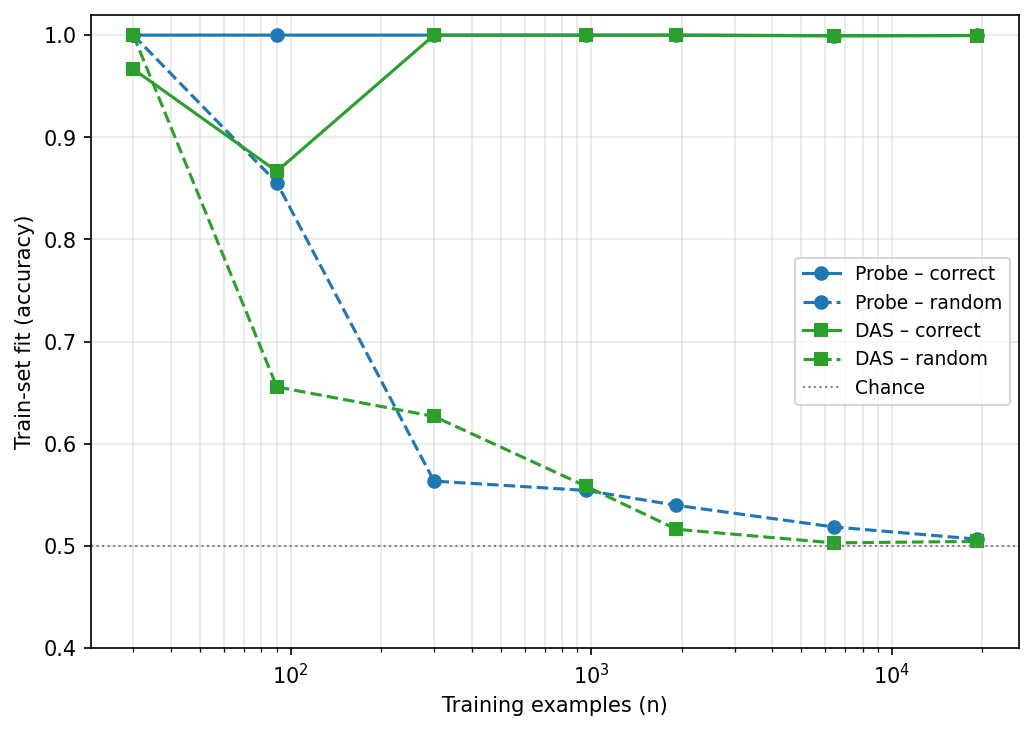
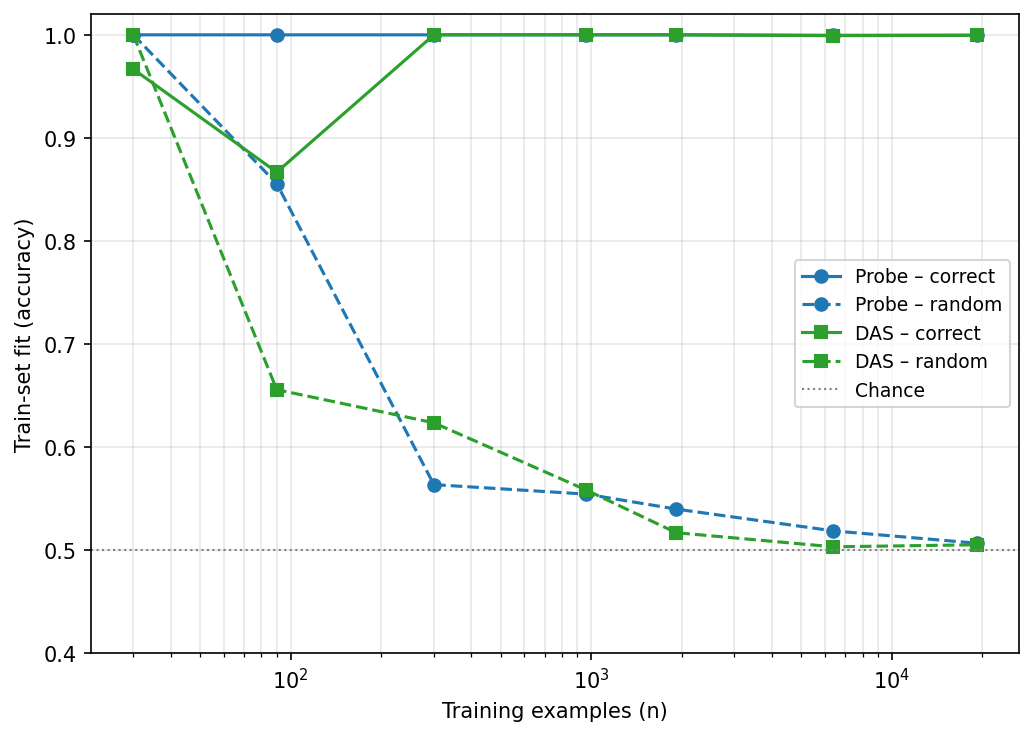
Code to run multiple seeds of main experiment.

diff --git a/heq/experiments.py b/heq/experiments.py
@@ -9,6 +9,8 @@ while the correct-label fit persists. The ``n`` at which the random fit collapse
 the capacity signature we want to compare across methods.
 """
 
+import random
+
 import numpy as np
 import torch
 from sklearn.linear_model import LogisticRegression
@@ -72,7 +74,7 @@ def _rotation_state(intervenable):
 
 def run_das_scaling(trained, train_causal_model, test_dataset, embedding_dim,
                     sampler, cache_params, das_configs=DAS_SCALE_CONFIGS,
-                    eval_batch_size=640, lr=0.01, warmup_steps=10, device="cpu"):
+                    eval_batch_size=640, lr=0.01, warmup_steps=10, seed=0, device="cpu"):
     """DAS train-fit (capacity) vs n, on correct and on fixed-random labels.
 
     accumulation_steps=1 and a roughly constant optimiser budget ensure each fit is
@@ -88,7 +90,7 @@ def run_das_scaling(trained, train_causal_model, test_dataset, embedding_dim,
         dataset = load_or_generate_counterfactual(
             "scale", train_causal_model, n, b, sampler, **cf_params
         )
-        rand_dataset = _shuffle_labels(dataset)
+        rand_dataset = _shuffle_labels(dataset, seed=seed)
 
         for key, ds in [("correct", dataset), ("random", rand_dataset)]:
             reset_das_rotation(intervenable, embedding_dim * 4)
@@ -111,34 +113,78 @@ def run_das_scaling(trained, train_causal_model, test_dataset, embedding_dim,
     return results, rotations
 
 
-def save_scaling_checkpoint(probe_results, das_results, das_rotations, path=None):
-    """Persist scaling results and the trained DAS rotations, so the (slow) sweep need
-    not be re-run to re-plot or re-evaluate later. Load with ``torch.load(path)``.
+def _aggregate_scaling(probe_runs, das_runs):
+    """Stack per-seed curves into mean and std (across seeds) for each plotted curve."""
+    def agg(curves):
+        a = np.array(curves, dtype=float)  # [n_seeds, n_sizes]
+        return {"mean": a.mean(0), "std": a.std(0)}
+    return {
+        "probe_correct": agg([r["WX"]["correct"]["train"] for r in probe_runs]),
+        "probe_random":  agg([r["WX"]["random"]["train"]  for r in probe_runs]),
+        "das_correct":   agg([r["correct"]["train"] for r in das_runs]),
+        "das_random":    agg([r["random"]["train"]  for r in das_runs]),
+    }
+
+
+def run_scaling_seeds(trained, train_ds, test_ds, train_causal_model, test_dataset,
+                      embedding_dim, sampler, cache_params, seeds=(0, 1, 2), device="cpu"):
+    """Run the probe and DAS scaling sweeps over several seeds and aggregate them.
+
+    Each seed re-randomises the *fitting* (the probe's subsample and random labelling;
+    DAS's rotation init and random labelling) on the same cached representations, so the
+    bands reflect run-to-run variance of the methods, not of the data. Returns
+    ``(aggregate, probe_runs, das_runs, das_rotations)``.
+    """
+    probe_runs, das_runs, das_rotations = [], [], {}
+    for s in seeds:
+        np.random.seed(s)
+        torch.manual_seed(s)
+        random.seed(s)
+        print(f"\n--- scaling seed {s} ---")
+        probe_runs.append(
+            run_probe_scaling(trained, train_ds, test_ds, embedding_dim, device=device))
+        das_res, rots = run_das_scaling(
+            trained, train_causal_model, test_dataset, embedding_dim,
+            sampler, cache_params, seed=s, device=device)
+        das_runs.append(das_res)
+        das_rotations[f"seed{s}"] = rots
+    return _aggregate_scaling(probe_runs, das_runs), probe_runs, das_runs, das_rotations
+
+
+def save_scaling_checkpoint(aggregate, probe_runs, das_runs, das_rotations, path=None):
+    """Persist aggregated + per-seed scaling results and the trained DAS rotations, so
+    the (slow) sweep need not be re-run to re-plot or re-evaluate. Load with torch.load.
     """
     path = path or (CACHE_DIR / "scaling_checkpoint.pt")
     CACHE_DIR.mkdir(exist_ok=True)
-    torch.save({"probe_results": probe_results,
-                "das_results": das_results,
+    torch.save({"aggregate": aggregate,
+                "probe_runs": probe_runs,
+                "das_runs": das_runs,
                 "das_rotations": das_rotations}, str(path))
     print(f"Saved scaling checkpoint to {path}")
 
 
-def plot_scaling_experiment(probe_results, das_results, save_path="scaling.png"):
-    """Train-set fit vs n on a single axis: solid = correct labels (signal),
-    dashed = random labels (spurious capacity); blue = probe, green = DAS. The method
-    whose random (dashed) curve drops to chance at smaller n has lower spurious capacity.
+def plot_scaling_seeds(aggregate, save_path="scaling.png"):
+    """Train-set fit vs n: mean over seeds with shaded ±1 std bands. Solid = correct
+    labels (signal), dashed = random labels (spurious capacity); blue = probe, green =
+    DAS. The method whose random (dashed) band drops to chance at smaller n has lower
+    spurious-fitting capacity.
     """
     import matplotlib.pyplot as plt
 
-    n_probe = SCALE_N[:len(probe_results["WX"]["correct"]["train"])]
-    n_das = SCALE_N[:len(das_results["correct"]["train"])]
+    n = SCALE_N[:len(aggregate["probe_correct"]["mean"])]
     c = {"probe": "#1f77b4", "das": "#2ca02c"}
-
+    curves = [
+        ("probe_correct", c["probe"], "-",  "o", "Probe – correct"),
+        ("probe_random",  c["probe"], "--", "o", "Probe – random"),
+        ("das_correct",   c["das"],   "-",  "s", "DAS – correct"),
+        ("das_random",    c["das"],   "--", "s", "DAS – random"),
+    ]
     _, ax = plt.subplots(figsize=(7, 5))
-    ax.plot(n_probe, probe_results["WX"]["correct"]["train"], "-o",  color=c["probe"], label="Probe – correct")
-    ax.plot(n_probe, probe_results["WX"]["random"]["train"],  "--o", color=c["probe"], label="Probe – random")
-    ax.plot(n_das,   das_results["correct"]["train"],         "-s",  color=c["das"],   label="DAS – correct")
-    ax.plot(n_das,   das_results["random"]["train"],          "--s", color=c["das"],   label="DAS – random")
+    for key, color, ls, marker, label in curves:
+        m, s = np.array(aggregate[key]["mean"]), np.array(aggregate[key]["std"])
+        ax.plot(n, m, linestyle=ls, marker=marker, color=color, label=label)
+        ax.fill_between(n, m - s, m + s, color=color, alpha=0.15, linewidth=0)
     ax.axhline(0.5, color="gray", linestyle=":", linewidth=1, label="Chance")
     ax.set_xscale("log")
     ax.set_xlabel("Training examples (n)")
@@ -149,5 +195,5 @@ def plot_scaling_experiment(probe_results, das_results, save_path="scaling.png")
 
     plt.tight_layout()
     plt.savefig(save_path, dpi=150, bbox_inches="tight")
-    print(f"Saved plot to {save_path}")
+    print(f"Saved plot to {save_path} (mean +/- 1 std over seeds)")
     plt.show()

diff --git a/main.py b/main.py
@@ -30,9 +30,8 @@ from heq.data import (
 )
 from heq.das import build_das_intervenable, eval_das, train_das
 from heq.experiments import (
-    plot_scaling_experiment,
-    run_das_scaling,
-    run_probe_scaling,
+    plot_scaling_seeds,
+    run_scaling_seeds,
     save_scaling_checkpoint,
 )
 from heq.models import load_or_train_mlp
@@ -90,6 +89,9 @@ def get_args():
     parser.add_argument("--das-accumulation", type=int, default=0,
                         help="DAS grad-accumulation steps; 0 = auto (effective batch ~6400). "
                              "Set 1 to update every minibatch (10x more updates at batch 640).")
+    parser.add_argument("--scaling-seeds", type=lambda s: tuple(int(x) for x in s.split(",")),
+                        default=(0, 1, 2), help="comma-separated seeds for the scaling sweep "
+                                                "(confidence bands are mean +/- std over these)")
     # Logging.
     parser.add_argument("--wandb-project", type=str, default="das-hierarchical-equality")
     parser.add_argument("--wandb-run-name", type=str, default=None)
@@ -155,14 +157,13 @@ def main(args):
         eval_das(intervenable, test_dataset, dim, batch_size=args.das_batch_size, device=device)
 
     if "scaling" in steps:
-        print("\n=== Scaling Experiment: Probes vs DAS (correct vs random labels) ===")
-        probe_results = run_probe_scaling(trained, train_ds, test_ds, dim, device=device)
-        das_results, das_rotations = run_das_scaling(
-            trained, train_causal_model, test_dataset, dim,
-            sampler, cache_params, device=device,
+        print("\n=== Scaling Experiment: Probes vs DAS (correct vs random, seed-averaged) ===")
+        aggregate, probe_runs, das_runs, das_rotations = run_scaling_seeds(
+            trained, train_ds, test_ds, train_causal_model, test_dataset, dim,
+            sampler, cache_params, seeds=args.scaling_seeds, device=device,
         )
-        save_scaling_checkpoint(probe_results, das_results, das_rotations)
-        plot_scaling_experiment(probe_results, das_results)
+        save_scaling_checkpoint(aggregate, probe_runs, das_runs, das_rotations)
+        plot_scaling_seeds(aggregate)
 
     if wandb.run is not None:
         wandb.finish()